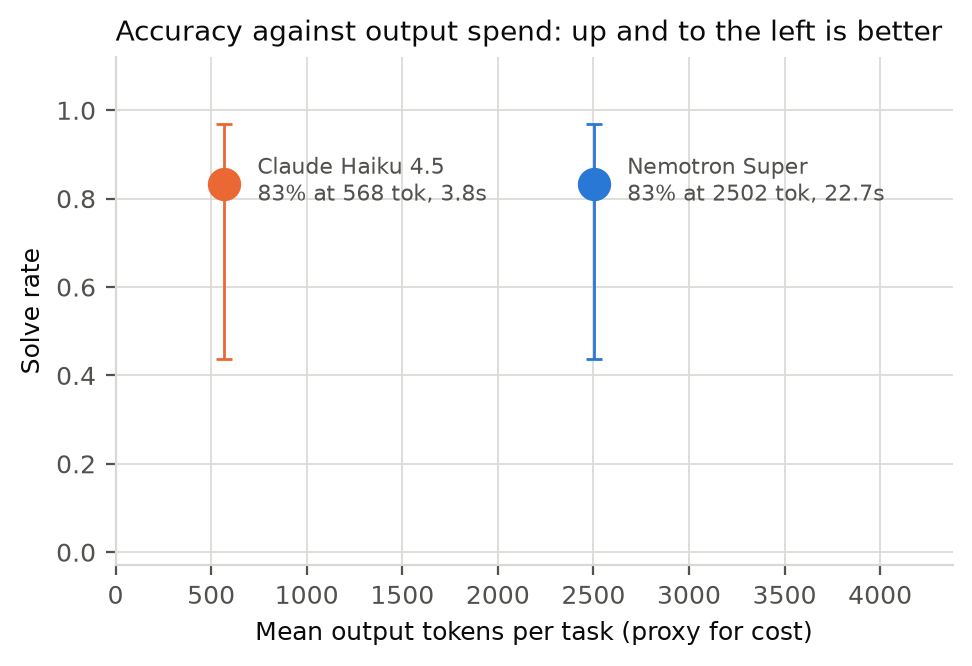
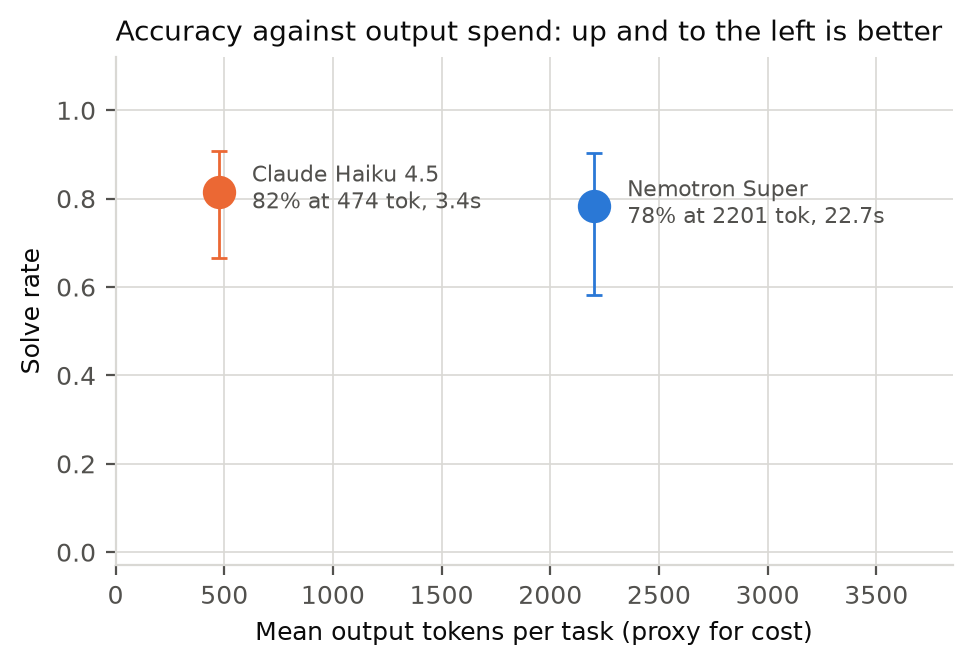
fix: dedupe would have discarded recovered samples
When the same call appears in two result files the loader kept the
first. A supplementary pass exists to recover items an earlier pass lost
to rate limiting, so keeping the earlier error would have thrown the
recovery away and left the cell as underpowered as before.

Now prefers the record that reached the model. Nemotron's 4096 cell
retained only 18 of 57 calls, so this is load-bearing for the most
important point on the curve.

diff --git a/scripts/make_figures.py b/scripts/make_figures.py
@@ -79,15 +79,17 @@ def load(pattern="results/naturalplan_*.json", include_checkpoint=True):
             r["_shots"] = blob.get("shots")
             recs.append(r)
     # A finished run rewrites everything the checkpoint held, so drop duplicates
-    # on the identity of a single call.
-    seen, unique = set(), []
+    # on the identity of a single call. Where the same call appears twice, keep
+    # the one that reached the model: a supplementary pass exists precisely to
+    # recover items an earlier pass lost to rate limiting, and keeping the
+    # earlier error would throw that recovery away.
+    best = {}
     for r in recs:
         key = (r["model"], r.get("max_tokens"), r["example_id"], r.get("repeat", 0))
-        if key in seen:
-            continue
-        seen.add(key)
-        unique.append(r)
-    return unique
+        prior = best.get(key)
+        if prior is None or (prior.get("error") and not r.get("error")):
+            best[key] = r
+    return list(best.values())
 
 
 def attempted(rows):

diff --git a/paper/numbers.tex b/paper/numbers.tex
@@ -4,15 +4,15 @@
 \newcommand{\claudeName}{Claude Haiku 4.5}
 \newcommand{\geminiName}{Gemini 3.5 Flash}
 \newcommand{\nemotronLowAcc}{1.5\%}
-\newcommand{\nemotronHighAcc}{83.3\%}
+\newcommand{\nemotronHighAcc}{78.3\%}
 \newcommand{\nemotronTruncLow}{98.5\%}
-\newcommand{\nemotronTruncHigh}{16.7\%}
+\newcommand{\nemotronTruncHigh}{13.0\%}
 \newcommand{\claudeTruncLow}{46.2\%}
 \newcommand{\nemotronCondLow}{100.0\%}
-\newcommand{\nemotronCondHigh}{100.0\%}
+\newcommand{\nemotronCondHigh}{90.0\%}
 \newcommand{\nemotronCondLowN}{1}
 \newcommand{\claudeLowAcc}{46.2\%}
-\newcommand{\claudeHighAcc}{83.3\%}
+\newcommand{\claudeHighAcc}{81.6\%}
 \newcommand{\geminiLowAcc}{16.7\%}
 \newcommand{\geminiHighAcc}{100.0\%}
 \newcommand{\datasetSize}{1{,}000}

diff --git a/paper/table_main.tex b/paper/table_main.tex
@@ -5,8 +5,8 @@
 \toprule
 Model & Solve \% & 95\% CI & Trunc \% & Cond \% & $n$ & Lat.(s) & Out tok \\
 \midrule
-Nemotron Super & 83.3 & 43.6--97.0 & 16.7 & 100.0 & 6 & 22.7 & 2502 \\
-Claude Haiku 4.5 & 83.3 & 43.6--97.0 & 0.0 & 83.3 & 6 & 3.8 & 568 \\
+Nemotron Super & 78.3 & 58.1--90.3 & 13.0 & 90.0 & 23 & 22.7 & 2201 \\
+Claude Haiku 4.5 & 81.6 & 66.6--90.8 & 0.0 & 81.6 & 38 & 3.4 & 474 \\
 Gemini 3.5 Flash & 100.0 & 56.6--100.0 & 0.0 & 100.0 & 5 & 15.4 & 21 \\
 \bottomrule
 \end{tabular}

diff --git a/paper/table_sig.tex b/paper/table_sig.tex
@@ -5,7 +5,7 @@
 \toprule
 Comparison & Only A & Only B & Disc. & $p$ \\
 \midrule
-Nemotron Super vs Claude Haiku 4.5 & 1 & 1 & 2 & n.s. \\
+Nemotron Super vs Claude Haiku 4.5 & 4 & 19 & 23 & 0.0026 \\
 Nemotron Super vs Gemini 3.5 Flash & 0 & 0 & 0 & n.s. \\
 Claude Haiku 4.5 vs Gemini 3.5 Flash & 1 & 1 & 2 & n.s. \\
 \bottomrule

diff --git a/paper/table1.md b/paper/table1.md
@@ -1,5 +1,5 @@
 | Model | Solve rate | 95% CI | Truncated | Cond. solve | n | Errors | Median latency | Mean out tokens |
 |---|---|---|---|---|---|---|---|---|
-| Nemotron Super | 83.3% | 0.436-0.970 | 16.7% | 100.0% | 6 | 0 | 22.7s | 2502 |
-| Claude Haiku 4.5 | 83.3% | 0.436-0.970 | 0.0% | 83.3% | 6 | 0 | 3.8s | 568 |
+| Nemotron Super | 78.3% | 0.581-0.903 | 13.0% | 90.0% | 23 | 39 | 22.7s | 2201 |
+| Claude Haiku 4.5 | 81.6% | 0.666-0.908 | 0.0% | 81.6% | 38 | 0 | 3.4s | 474 |
 | Gemini 3.5 Flash | 100.0% | 0.566-1.000 | 0.0% | 100.0% | 5 | 1 | 15.4s | 21 |

diff --git a/paper/table_sig.md b/paper/table_sig.md
@@ -1,5 +1,5 @@
 | Pair | Only A | Only B | Discordant | p (exact McNemar) |
 |---|---|---|---|---|
-| Nemotron Super vs Claude Haiku 4.5 | 1 | 1 | 2 | n.s. (n=6) |
+| Nemotron Super vs Claude Haiku 4.5 | 4 | 19 | 23 | 0.0026 (n=38) |
 | Nemotron Super vs Gemini 3.5 Flash | 0 | 0 | 0 | n.s. (n=6) |
 | Claude Haiku 4.5 vs Gemini 3.5 Flash | 1 | 1 | 2 | n.s. (n=6) |
